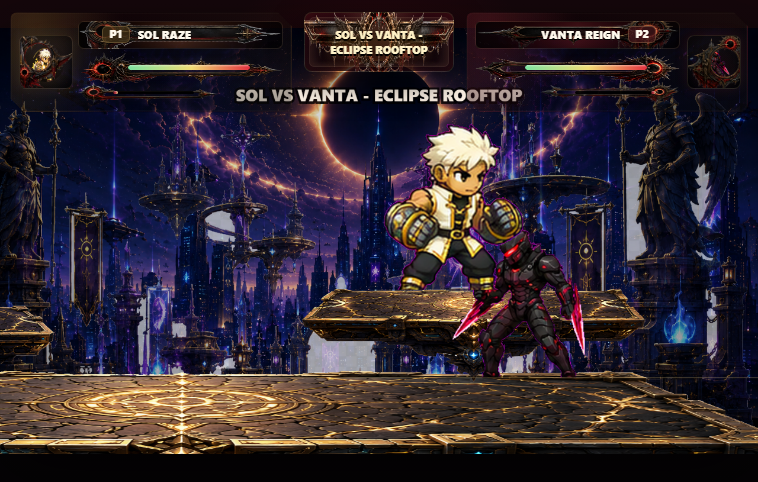
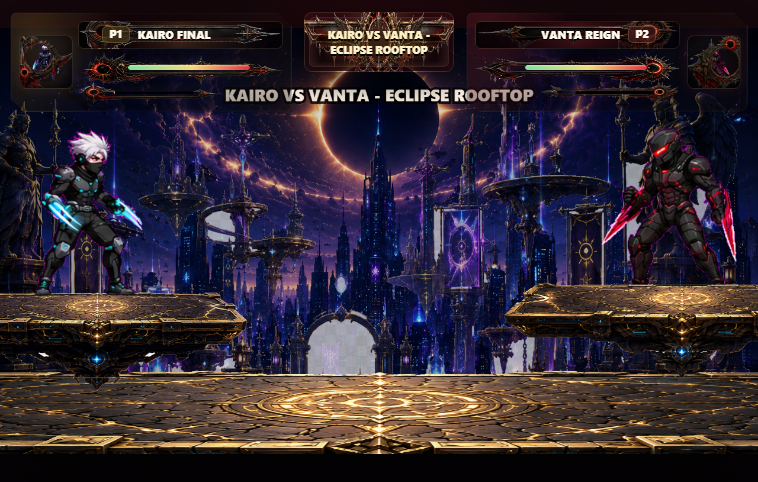
refine eclipse platform jump access

diff --git a/NO_GODS_ABOVE/game.js b/NO_GODS_ABOVE/game.js
@@ -198,8 +198,8 @@
     spawns: { p1X: 720, p2X: 1880 },
     groundY: GROUND_Y,
     platforms: [
-      { id: "eclipse_left_lift", x: 650, y: 465, w: 310, h: 24, dropThrough: true },
-      { id: "eclipse_right_lift", x: 1640, y: 436, w: 310, h: 24, dropThrough: true }
+      { id: "eclipse_left_lift", x: 650, y: 447, w: 310, h: 24, dropThrough: true },
+      { id: "eclipse_right_lift", x: 1640, y: 432, w: 310, h: 24, dropThrough: true }
     ],
     camera: { minScale: 0.72, maxScale: 1, paddingX: 300, damping: 9.5 },
     platformSpeedTuning: {
@@ -207,7 +207,7 @@
       airDriftMultiplier: 2.38,
       gravityMultiplier: 2.24,
       fallSpeedMultiplier: 1.22,
-      jumpForceMultiplier: 1,
+      jumpForceMultiplier: 1.13,
       animationSpeedMultiplier: 1,
       hitstopMultiplier: 0.45,
       knockbackVelocityMultiplier: 2.08,
@@ -232,8 +232,8 @@
       foregroundKey: "eclipseForeground",
       parallaxX: 0.08,
       mainPlatform: { x: 150, y: 420, w: 2300, h: 540 },
-      leftPlatform: { x: 450, y: 270, w: 660, h: 390 },
-      rightPlatform: { x: 1490, y: 330, w: 650, h: 350 },
+      leftPlatform: { x: 450, y: 252, w: 660, h: 390 },
+      rightPlatform: { x: 1490, y: 326, w: 650, h: 350 },
       foreground: {
         activeGameplay: false,
         alpha: 0.74,

diff --git a/NO_GODS_ABOVE/index.html b/NO_GODS_ABOVE/index.html
@@ -347,6 +347,6 @@
     </main>
 
     <script src="https://unpkg.com/peerjs@1.5.4/dist/peerjs.min.js"></script>
-    <script src="game.js?v=eclipse-online-qa-1"></script>
+    <script src="game.js?v=eclipse-platform-refine-1"></script>
   </body>
 </html>

diff --git a/SESSION_CONTEXT.md b/SESSION_CONTEXT.md
@@ -5,6 +5,7 @@ Agent: Codex
 Date: 2026-06-10
 
 ## What Was Done
+- Completed follow-up Eclipse Rooftop platform refinement after the user asked to raise side platforms and re-test jump access. Preflight read `SESSION_CONTEXT.md`, repo-local NGA skills `local_versus_feature_skill.md`, `fighting_game_balance_pass_skill.md`, and `deployment_readiness_skill.md`. Scope stayed Eclipse-only except for the script cache key and QA report updates: no Standard Arena, Platform Arena, combat timing, VFX, menu, or multiplayer backend changes. In `NO_GODS_ABOVE/game.js`, moved Eclipse side-platform collision and art together to preserve visual/collision alignment: left platform is now `x=650 y=447 w=310 h=24` with render rect `x=450 y=252 w=660 h=390`; right platform is now `x=1640 y=432 w=310 h=24` with render rect `x=1490 y=326 w=650 h=350`. Added an Eclipse-only jump access tweak through `ECLIPSE_ROOFTOP_CONFIG.platformSpeedTuning.jumpForceMultiplier`, changed from `1` to `1.13`; Standard and Platform Arena remain at `jumpForceMultiplier: 1`. `NO_GODS_ABOVE/index.html` now loads `game.js?v=eclipse-platform-refine-1`. Focused Eclipse CDP QA passed with real `KeyW` jump input for all selectable fighters (`kairo`, `vanta`, `nyx`, `sol`, `seris`, `lamuh`, `lamuh_legacy`, `celeste`) onto both side platforms; tightest passing case was Seris onto right platform with about `7.24px` apex clearance. Camera check with fighters on both side platforms passed (`scale ~= 0.992`), and foreground remains disabled for active gameplay. Validation passed: `node --check NO_GODS_ABOVE/game.js`, `node --check NO_GODS_ABOVE/scripts/smoke_platform_arena_test.js`, `node NO_GODS_ABOVE/scripts/smoke_platform_arena_test.js`, focused Eclipse CDP QA, and `git diff --check` with only existing LF/CRLF warnings. Updated `NO_GODS_ABOVE/docs/eclipse_rooftop_qa_report.json`, `NO_GODS_ABOVE/docs/eclipse_rooftop_qa_screenshot.png`, and `NO_GODS_ABOVE/docs/platform_arena_test_report.json`. Obsidian central sync was attempted at `https://127.0.0.1:27124/` and failed with HTTP `000`, so fallback note `C:\Users\qchee\OneDrive\Documents\LAMUH\LAMUH\Agent Sync\2026-06-10-no-gods-above-eclipse-platform-refinement.md` was written.
 - Completed focused Eclipse Rooftop + Online Versus QA polish after the user requested live-site-truth cleanup. Preflight read `SESSION_CONTEXT.md`, the pasted task, repo-local NGA skills `local_versus_feature_skill.md`, `deployment_readiness_skill.md`, `ui_asset_pack_integration_skill.md`, and `vfx_integration_audit_skill.md`, plus Browser/build-web/game-playtest guidance. Scope stayed narrow: no gameplay rewrite, menu rewrite, art regeneration, Standard Arena change, or new multiplayer backend. In `NO_GODS_ABOVE/game.js`, active Eclipse combat now skips `assets/stages/eclipse_rooftop/06_foreground_layer_transparent.png` via `render.foreground.activeGameplay: false`; the asset remains available in the repo but is not drawn over fighters/projectiles/particles during matches. Eclipse side-platform collision was aligned to visible tops and verified as `eclipse_left_lift x=650 y=465 w=310 h=24` and `eclipse_right_lift x=1640 y=436 w=310 h=24`; debug mode still shows platform boxes. Eclipse camera/readability was tuned to `minScale 0.72`, `paddingX 300`, `damping/cameraSmoothing 9.5`, with darker background/midground treatment and reduced Eclipse-only dash/landing smoke while leaving hit sparks/VFX intact. Online Versus was audited as PeerJS P2P/WebRTC using public PeerJS cloud signaling (`peerjs@1.5.4` via unpkg) with no explicit TURN server configured; added explicit phases (`idle`, `creating room`, `waiting for opponent`, `joining room`, `connecting`, `connected`, `failed`, `timed out`, `disconnected`), 20s connect timeout, clearer blocked-network copy, `data-net-phase`, and `[NGA online]` console diagnostics. `NO_GODS_ABOVE/index.html` now loads `game.js?v=eclipse-online-qa-1` for live cache busting. Added `NO_GODS_ABOVE/docs/eclipse_rooftop_qa_report.json` and `NO_GODS_ABOVE/docs/eclipse_rooftop_qa_screenshot.png`. Validation passed: `node --check NO_GODS_ABOVE/game.js`, `node --check NO_GODS_ABOVE/scripts/smoke_online_versus.js`, `node --check NO_GODS_ABOVE/scripts/smoke_platform_arena_test.js`, `node NO_GODS_ABOVE/scripts/smoke_online_versus.js` (`ok: true`, room `JT7SG`), `node NO_GODS_ABOVE/scripts/smoke_platform_arena_test.js`, focused Eclipse CDP QA (`ok: true`, timeout UI phase `timed out`), and `git diff --check` with only existing LF/CRLF warnings. An in-app Browser navigation attempt timed out and reset the REPL kernel, so final rendered validation used the repo CDP harness; the captured screenshot looked sane with fighters unobscured. Changes were pushed to GitHub `origin/master` in commits `0d77995` and `dde4de7`, then deployed to Netlify production (`https://no-gods-above.netlify.app`, deploy id `6a29697adf48051cad9e49e1`); live HTTP checks confirmed the new cache key, foreground opt-out, timeout text, left-platform coordinate marker, and sampled Eclipse assets all return as expected. Obsidian central sync was attempted at `https://127.0.0.1:27124/` and failed with HTTP `000`, so fallback note `C:\Users\qchee\OneDrive\Documents\LAMUH\LAMUH\Agent Sync\2026-06-10-no-gods-above-eclipse-online-qa-polish.md` was written.
 - Rechecked the project after the user clarified that `https://no-gods-above.netlify.app` is the source of truth. Fetched the live `index.html`, `game.js?v=online-handshake-1`, and `style.css`; confirmed they normalize-equal to GitHub `origin/master` commit `bcad822b21f606765806e7996dc89cd9b372cbb0` and to the fast-forwarded local checkout. Local was behind by 4 commits (`62c9e43`, `c976de5`, `f9608ba`, `bcad822`) and was fast-forwarded to `origin/master`; no merge conflicts or source edits were made. Verified GitHub repo `lamuh24/no-gods-above` is now public with default branch `master`. Live asset-reference audit found 115 referenced asset patterns with only the dynamic template `assets/ui/flow/mode_panel_${mode.id}.png` not existing as a literal path. Syntax checks passed for `NO_GODS_ABOVE/game.js` and `NO_GODS_ABOVE/scripts/smoke_online_versus.js`. Running `node NO_GODS_ABOVE\scripts\smoke_online_versus.js` produced a passing report (`ok: true`, PeerJS room ready, select locks synced, match start, bidirectional damage/snapshot sync, pause/unpause sync, rematch sync), but the command timed out during cleanup; leftover smoke Chrome/Node helpers and temp profiles were stopped/removed. Obsidian central sync was attempted at `https://127.0.0.1:27124/` and failed with HTTP `000`, so fallback note `C:\Users\qchee\OneDrive\Documents\LAMUH\LAMUH\Agent Sync\2026-06-10-no-gods-above-live-source-truth-check.md` was written. Scope was verification/sync only: no gameplay, art, UI, deployment, or netcode behavior was intentionally changed.
 - Shipped Online Versus Phase 1 (PeerJS P2P netplay) and deployed it live after the user asked "how can we add online multiplayer" then approved the phased plan. Preflight read `SESSION_CONTEXT.md`, `AGENTS.md`, and repo-local NGA skills `local_versus_feature_skill.md`, `deployment_readiness_skill.md`, `git_checkpoint_safety_skill.md`. Architecture: host-authoritative with guest prediction — host simulates the match; guest sends a held-direction bitmask + discrete action events (jump/dash/superdash/light/medium/heavy/special1-3/ultimate), applies them locally for instant feel, and is corrected by host snapshots at 15 Hz (`NET_FIGHTER_SYNC_FIELDS` arrays for both fighters + matchEnded/winner/hitPause/combo + host dir mask). New `state.netKeys` input set merges into `state.keys` via `syncInputKeys` so the existing `readMovement(fighter, P2_CONTROLS)` path drives the remote fighter unchanged; `shouldUseKeyboardKey` filters P1/P2 codes per online role; guest plays P2 with the P1 keyboard layout translated in `handleNetGuestKeyDown`. Flow: title-screen Online Versus menu (`#online-menu` in `index.html`, styles appended to `style.css`) → host shows a 5-char room code (PeerJS id `nga-fight-<code>`, public PeerJS cloud signaling, peerjs@1.5.4 via unpkg CDN script tag) → guest joins → online character select (host=P1 side, guest=P2 side, host owns stage + start; locks/unlocks/stage/start sync via messages) → match with synced pause/rematch/return-to-select; disconnect at any point returns to the online menu with an error status. Guests never end matches locally (guard in `endMatch` + `net.applyingSnapshot`); gamepad fight input is disabled while online (keyboard only, Phase 1). New smoke `NO_GODS_ABOVE/scripts/smoke_online_versus.js` (CDP harness modeled on `smoke_platform_arena_test.js`) launches TWO headless Chrome instances (one tab each — a backgrounded tab's rAF throttles and freezes the loop, which is why two instances are required), hosts/joins a real PeerJS room, locks kairo vs vanta, starts the match, and asserts bidirectional damage, snapshot sync, pause/unpause sync, and rematch sync; report saved to `NO_GODS_ABOVE/docs/online_versus_smoke_report.json`. Smoke passed against local files AND against the live production URL (pass a URL argument to smoke remote). Pre-existing regression-smoke failures on this machine confirmed NOT caused by these changes by re-running both on a clean HEAD worktree: `smoke_platform_arena_test.js` fails "Down+jump did not drop through the elevated platform" and `smoke_lamuh_mirror_pierce.js` fails `runtimeOk:false` identically on the untouched baseline (environment/headless-Chrome flake, investigate separately). Deployed to production via `_stage_deploy.ps1` + `npx netlify deploy --prod` (deploy id `6a2884af21455b58698254ca`); live `game.js?v=online-versus-1` byte-matches local; README and deployment checklist updated. Phase 2 planned: fixed-timestep + seeded-RNG refactor, then input-delay lockstep. Known Phase 1 limits: guest needs host snapshot for held-attack-button move variants (Celeste up-attacks degrade), host P1 discrete actions reach the guest visually via snapshots (≤80 ms), online is keyboard-only.
